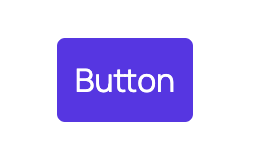
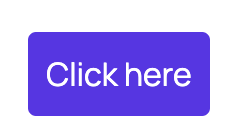
updated button component demos

Changed region(s): [[0.1167, 0.2286, 0.875, 0.8286]]

diff --git a/app/javascript/src/StyledComponents/Button.tsx b/app/javascript/src/StyledComponents/Button.tsx
@@ -44,7 +44,7 @@ const SIZES = { small: "small", medium: "medium", large: "large" };
 
 const Button = ({
   style = "primary",
-  size = "medium",
+  size,
   disabled = false,
   className = "",
   fullWidth = false,
